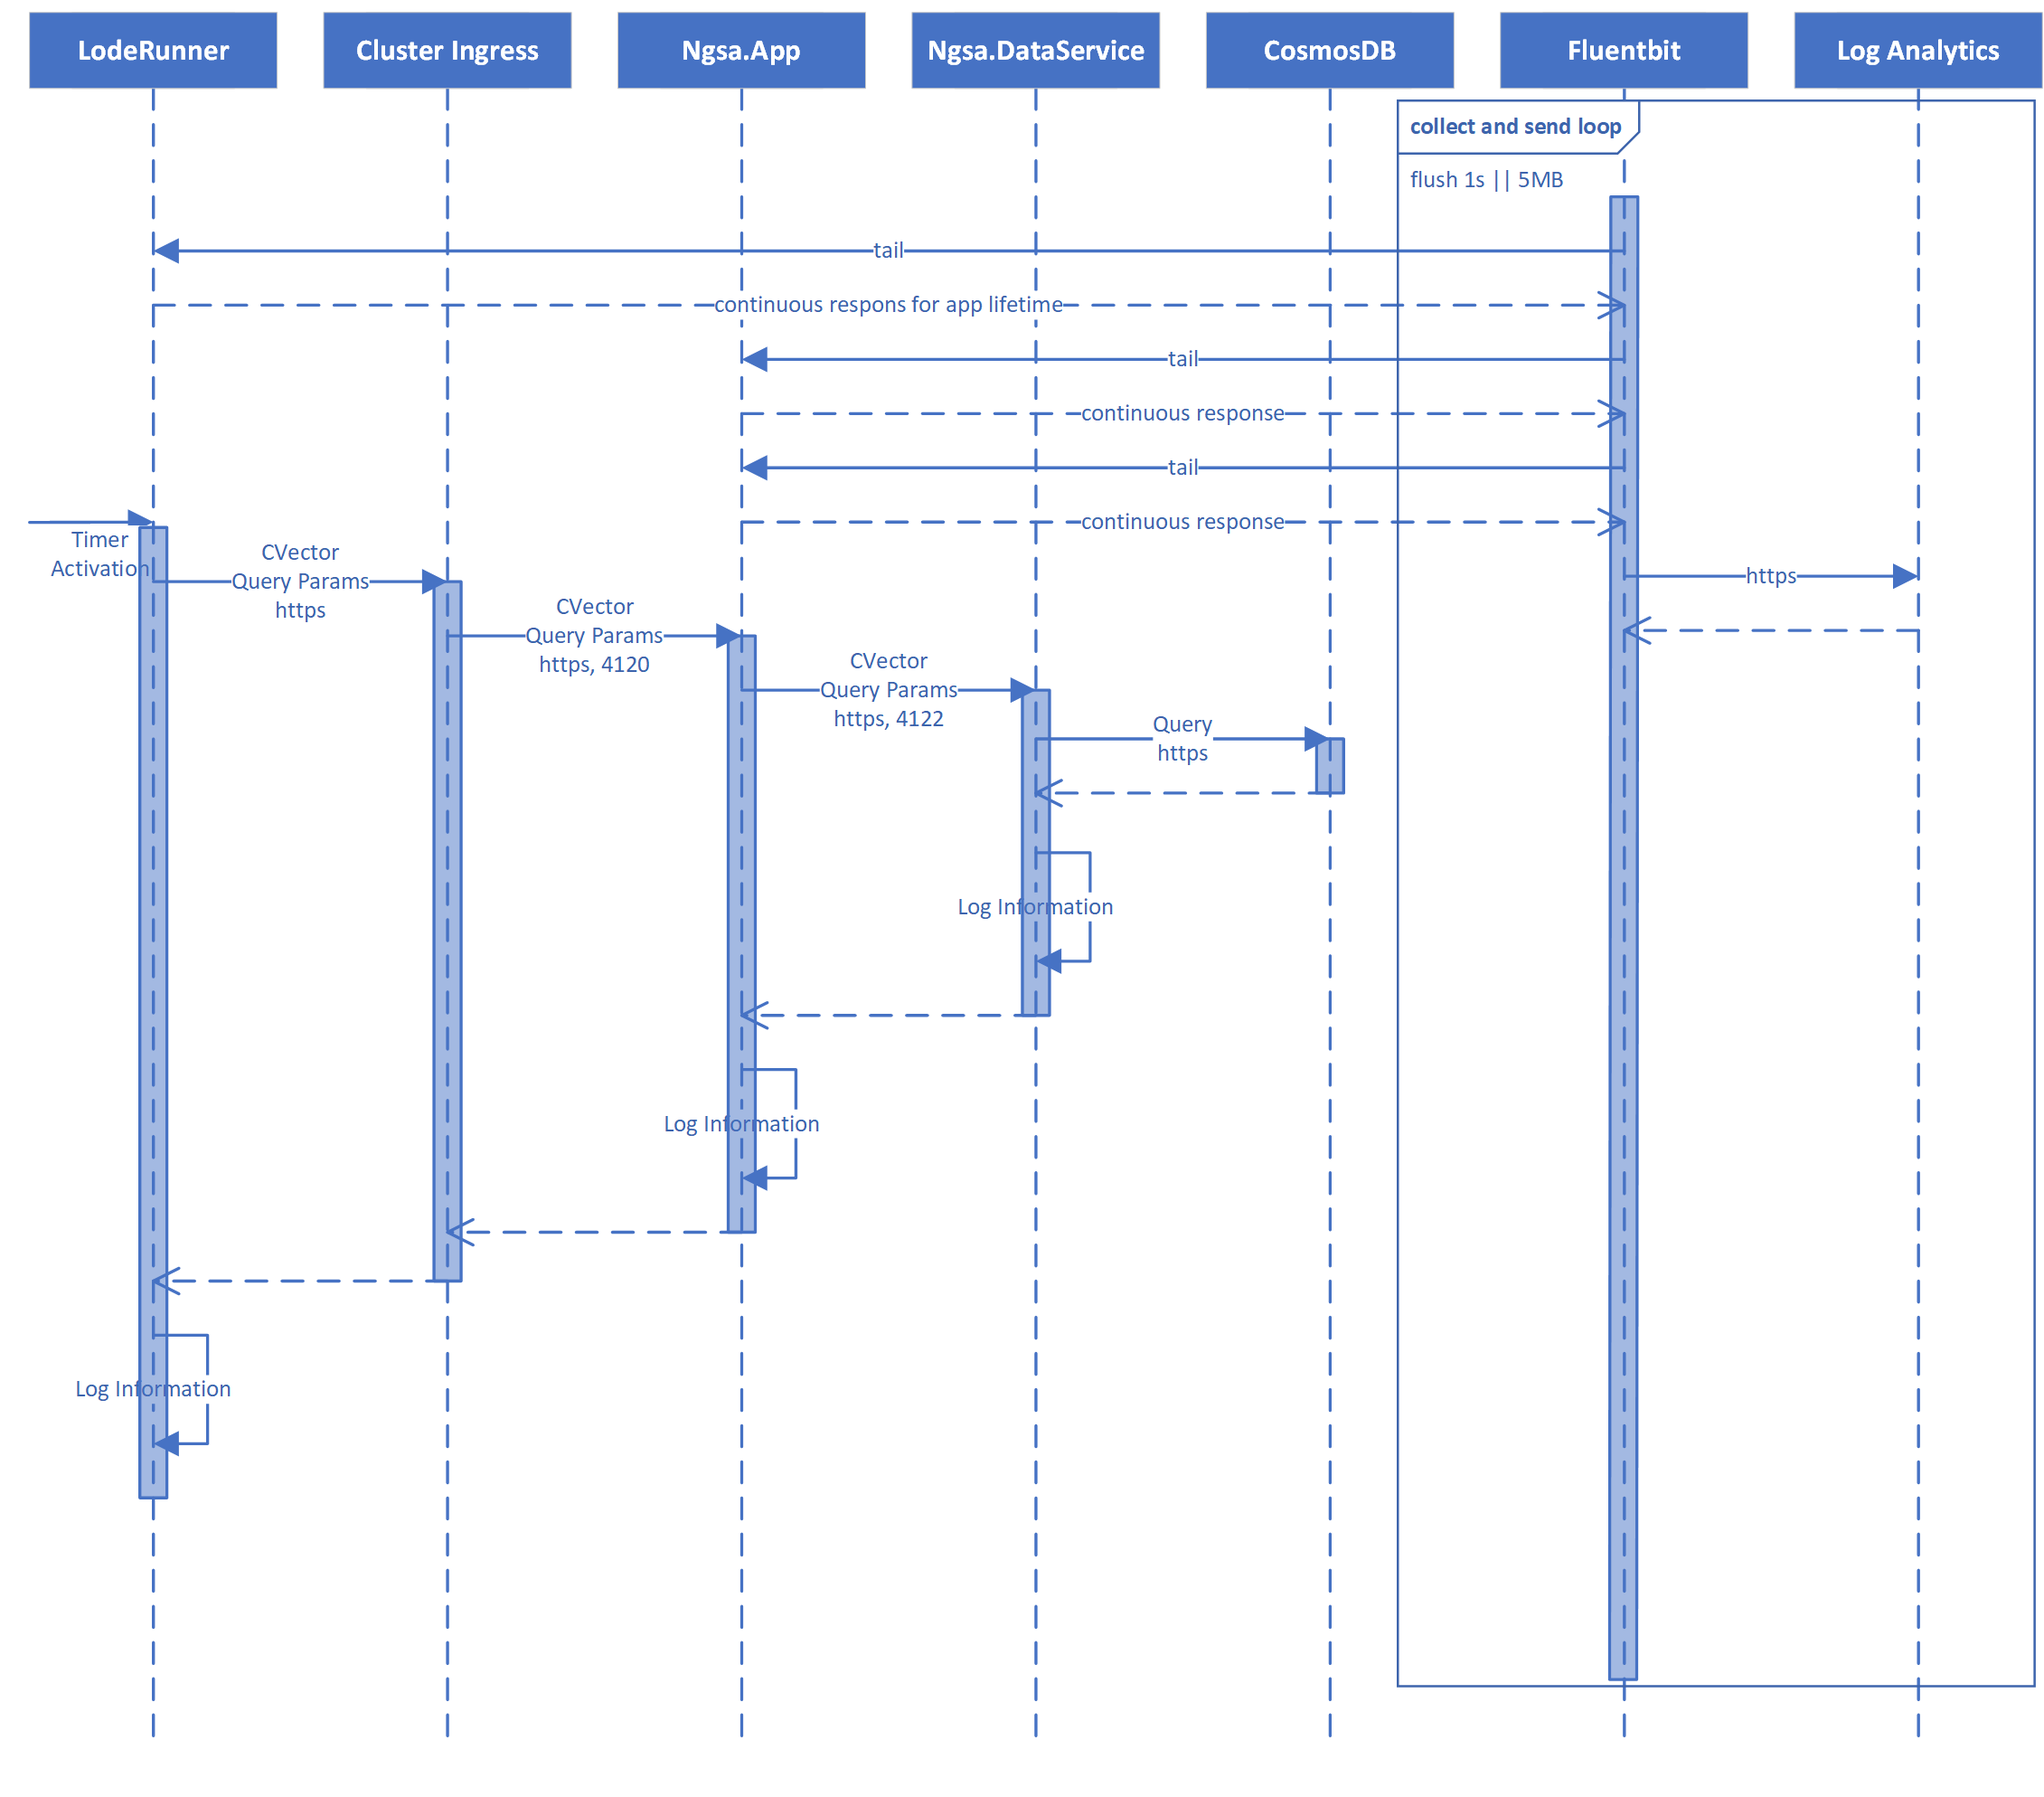
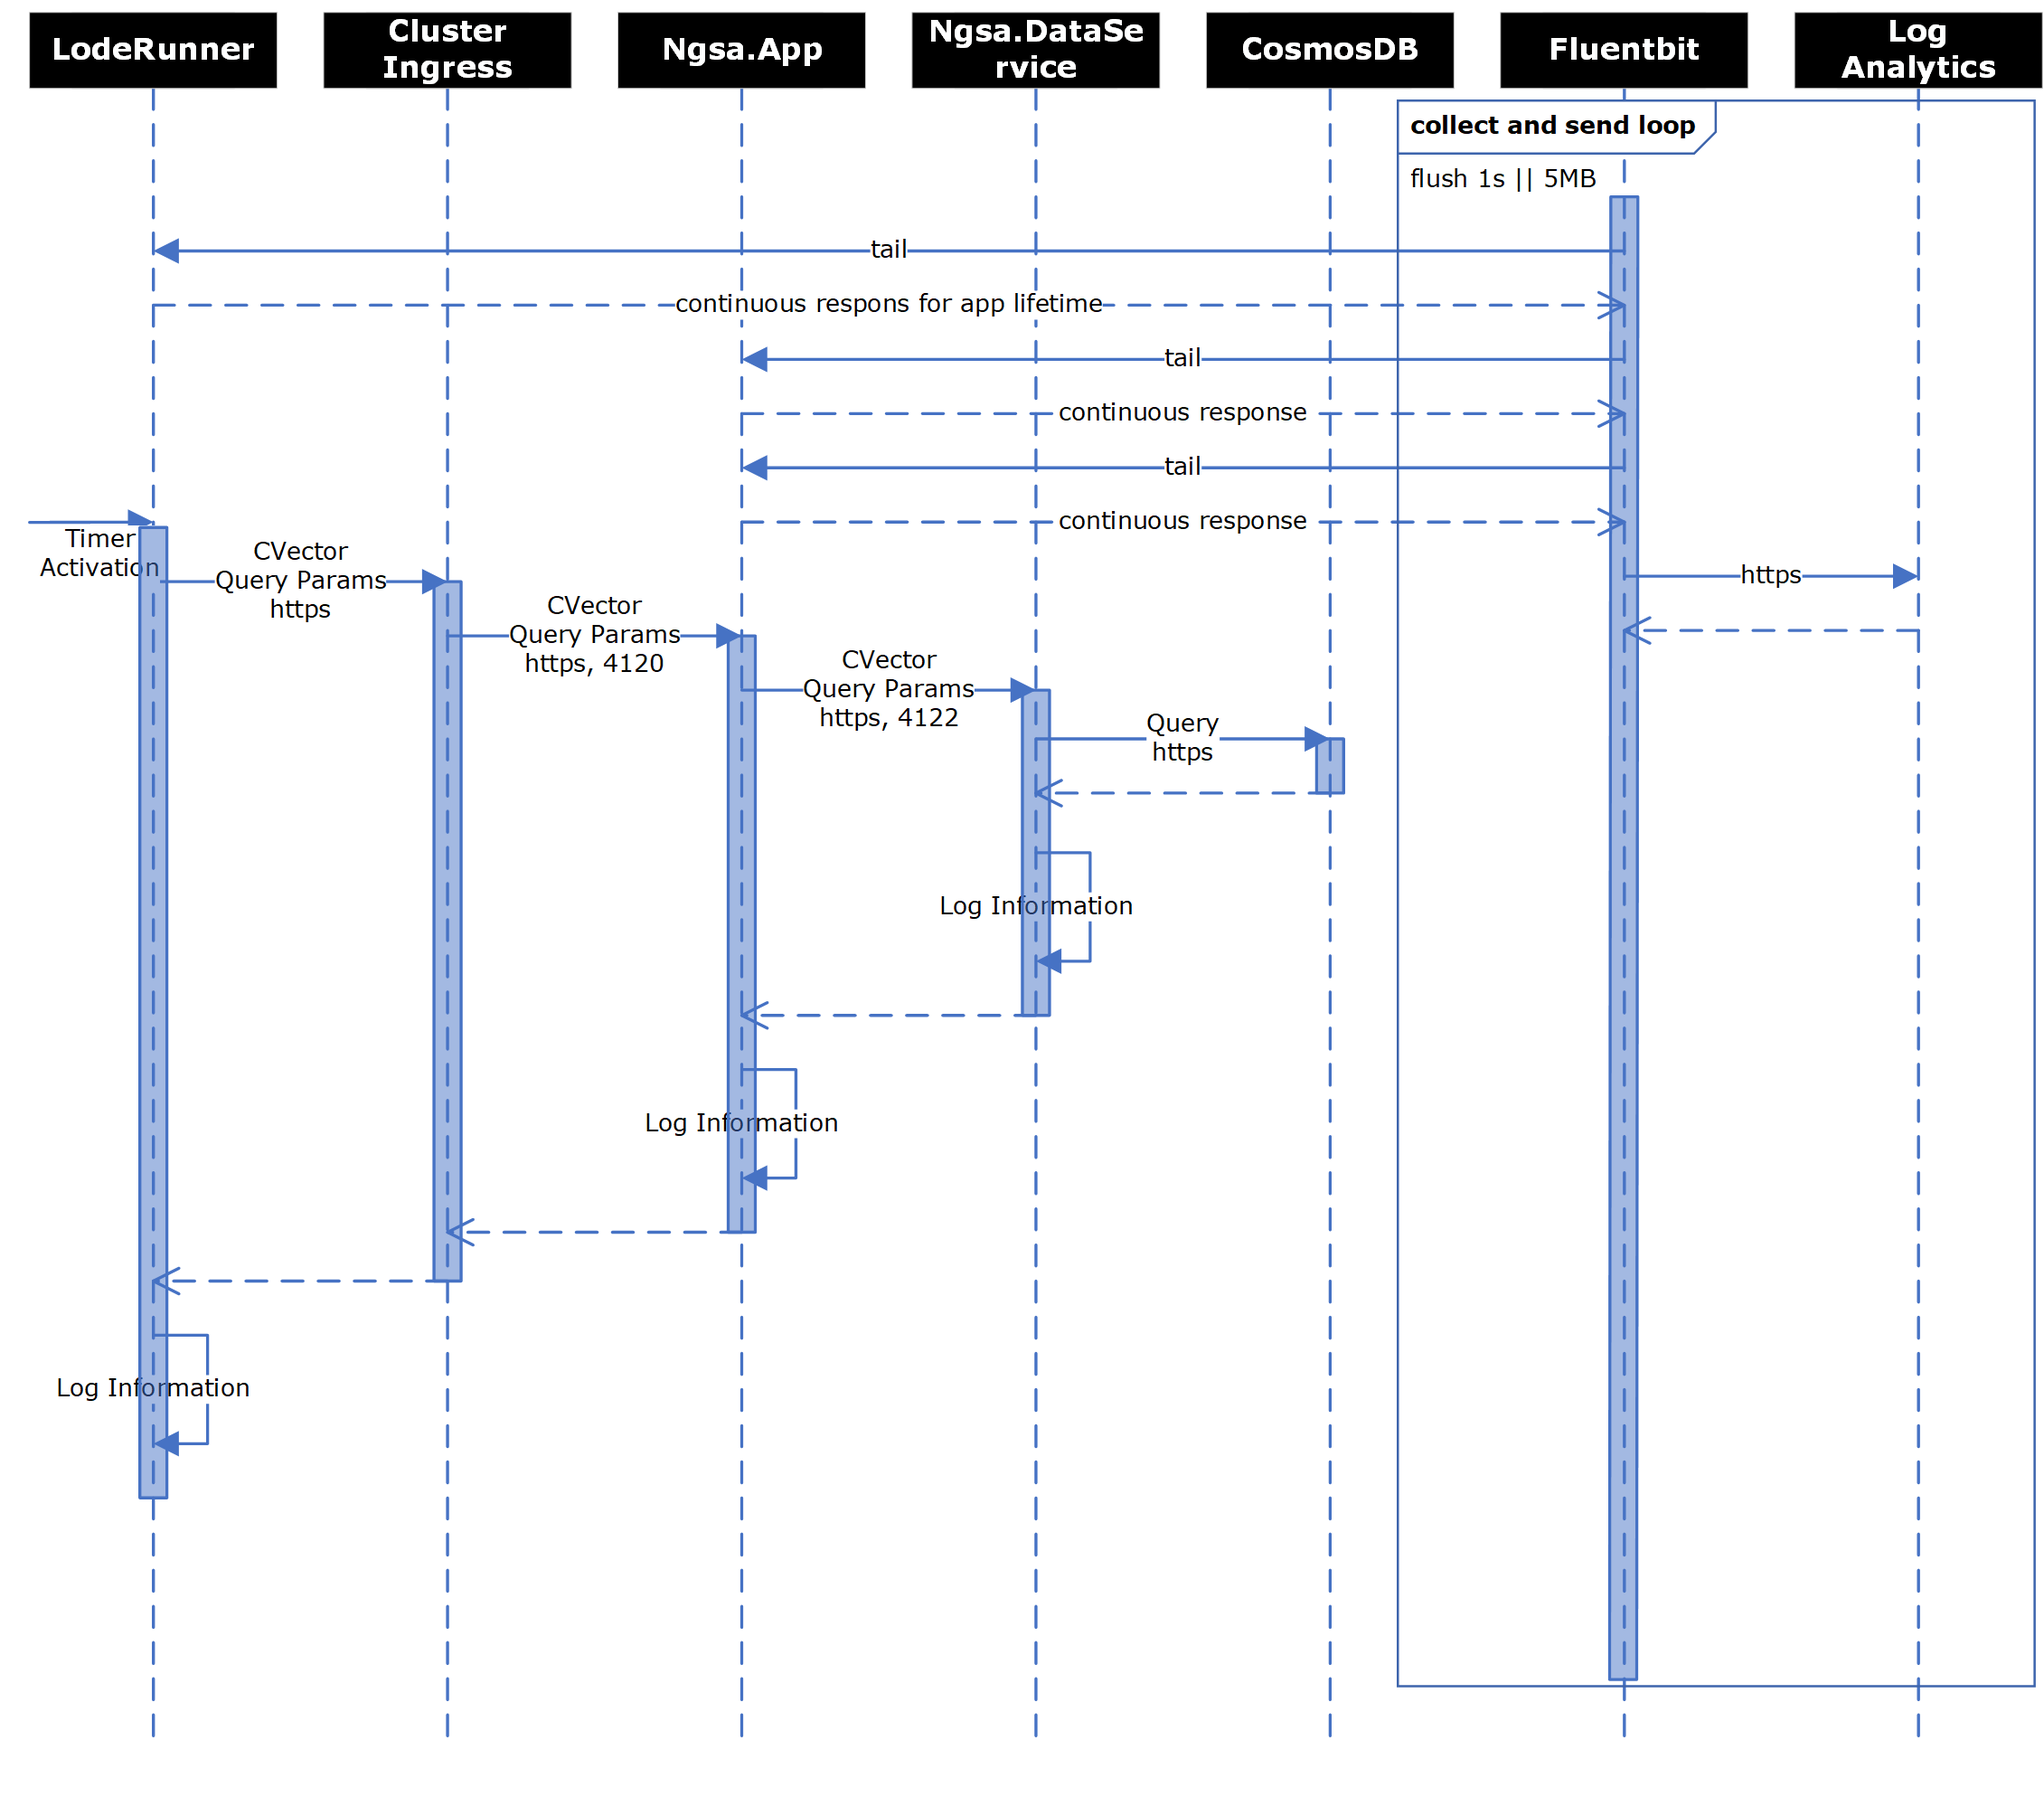
updated image and resolution

diff --git a/docs/ApplicationArch.md b/docs/ApplicationArch.md
@@ -8,7 +8,7 @@ The application is made of several components that are intended to validate the 
 
 <!-- markdownlint-disable MD033 -->
 <!-- couldn't get sizing to work in standard markdown -->
-<img src="./images/ngsa-request-sequence.png" width="800" height="600"/>
+<img src="./images/ngsa-request-sequence.png" width="1027" height="768"/>
 
 `NGSA Request Sequence`
 
